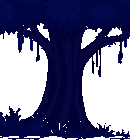
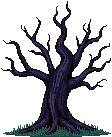
Fix the skill scenes: cut-out trees, one hero size, feet on the floor, and Play on the update log.

diff --git a/js/skillscene.js b/js/skillscene.js
@@ -2,8 +2,9 @@
 // unique trees or rocks for the spot you picked, a room that gains furniture
 // as you level, and a short flash when you find something good.
 // Positions snap to whole pixels so nothing ripples. Room art keeps square
-// pixels: it is scaled evenly, then letterboxed or cropped, never stretched.
-import {walkSrc} from './art.js';
+// pixels: it is scaled evenly and cover-cropped, never stretched or letterboxed.
+// Every floor prop and the hero's feet rest on the same walkable floor line.
+import {walkSrc, heroScale, FOOT_GAP} from './art.js';
 
 const FR = 64, FALLBACK = 'engineer';
 const SCROLL = 16;
@@ -17,13 +18,19 @@ const HERO_FOR = {
   cooking: 'paramedic', smithing: 'legionary', alchemy: 'plague_doctor', summoning: 'office_worker'
 };
 
+// Props are scoped by skill so a shared node id (like "iron") cannot pull
+// a mining rock into the forge.
 const PROP = {
-  copper: '/assets/gen/rock_copper.png', iron: '/assets/gen/rock_iron.png',
-  moonsilver: '/assets/gen/rock_moon.png', ember: '/assets/gen/rock_ember.png',
-  void: '/assets/gen/rock_void.png', starfall: '/assets/gen/rock_star.png',
-  ash: '/assets/gen/sks/tree_ash.png', ironbark: '/assets/gen/sks/tree_ironbark.png',
-  moonwood: '/assets/gen/sks/tree_moonwood.png', emberroot: '/assets/gen/sks/tree_emberroot.png',
-  voidtrunk: '/assets/gen/sks/tree_voidtrunk.png'
+  mining: {
+    copper: '/assets/gen/rock_copper.png', iron: '/assets/gen/rock_iron.png',
+    moonsilver: '/assets/gen/rock_moon.png', ember: '/assets/gen/rock_ember.png',
+    void: '/assets/gen/rock_void.png', starfall: '/assets/gen/rock_star.png'
+  },
+  woodcutting: {
+    ash: '/assets/gen/sks/tree_ash.png', ironbark: '/assets/gen/sks/tree_ironbark.png',
+    moonwood: '/assets/gen/sks/tree_moonwood.png', emberroot: '/assets/gen/sks/tree_emberroot.png',
+    voidtrunk: '/assets/gen/sks/tree_voidtrunk.png'
+  }
 };
 
 const FISH_BG = {
@@ -37,46 +44,46 @@ const ROOM_W = 384;
 const FURN = {
   cooking: [
     {src:'/assets/gen/sks/cook_herbs.png', at:10, x:0.2812, y:0.0000, w:16/ROOM_W},
-    {src:'/assets/gen/sks/cook_basket.png', at:20, x:0.5208, y:0.8548, w:22/ROOM_W},
-    {src:'/assets/gen/sks/cook_stool.png', at:30, x:0.4375, y:0.8387, w:16/ROOM_W},
+    {src:'/assets/gen/sks/cook_basket.png', at:20, x:0.5208, y:0.8548, w:22/ROOM_W, ground:true},
+    {src:'/assets/gen/sks/cook_stool.png', at:30, x:0.4375, y:0.8387, w:16/ROOM_W, ground:true},
     {src:'/assets/gen/sks/cook_board.png', at:40, x:0.1823, y:0.4677, w:22/ROOM_W},
-    {src:'/assets/gen/sks/cook_sack.png', at:50, x:0.0208, y:0.8548, w:14/ROOM_W},
-    {src:'/assets/gen/sks/cook_pantry.png', at:60, x:0.8385, y:0.1290, w:40/ROOM_W},
-    {src:'/assets/gen/sks/cook_crate.png', at:70, x:0.7604, y:0.8710, w:18/ROOM_W},
+    {src:'/assets/gen/sks/cook_sack.png', at:50, x:0.0208, y:0.8548, w:14/ROOM_W, ground:true},
+    {src:'/assets/gen/sks/cook_pantry.png', at:60, x:0.8385, y:0.1290, w:40/ROOM_W, ground:true},
+    {src:'/assets/gen/sks/cook_crate.png', at:70, x:0.7604, y:0.8710, w:18/ROOM_W, ground:true},
     {src:'/assets/gen/sks/cook_lamp.png', at:80, x:0.6406, y:0.0161, w:12/ROOM_W},
-    {src:'/assets/gen/sks/cook_pot.png', at:90, x:0.5885, y:0.8710, w:16/ROOM_W}
+    {src:'/assets/gen/sks/cook_pot.png', at:90, x:0.5885, y:0.8710, w:16/ROOM_W, ground:true}
   ],
   smithing: [
     {src:'/assets/gen/sks/smith_shield.png', at:10, x:0.0156, y:0.1452, w:16/ROOM_W},
-    {src:'/assets/gen/sks/smith_tub.png', at:20, x:0.4557, y:0.8710, w:20/ROOM_W},
-    {src:'/assets/gen/sks/smith_barrel.png', at:30, x:0.0156, y:0.8387, w:14/ROOM_W},
+    {src:'/assets/gen/sks/smith_tub.png', at:20, x:0.4557, y:0.8710, w:20/ROOM_W, ground:true},
+    {src:'/assets/gen/sks/smith_barrel.png', at:30, x:0.0156, y:0.8387, w:14/ROOM_W, ground:true},
     {src:'/assets/gen/sks/smith_swords.png', at:40, x:0.4375, y:0.0484, w:28/ROOM_W},
-    {src:'/assets/gen/sks/smith_shoes.png', at:50, x:0.3906, y:0.9032, w:18/ROOM_W},
+    {src:'/assets/gen/sks/smith_shoes.png', at:50, x:0.3906, y:0.9032, w:18/ROOM_W, ground:true},
     // Parked on the right, out of the walking lane in front of the forge.
-    {src:'/assets/gen/sks/smith_armor.png', at:60, x:0.8200, y:0.5806, w:24/ROOM_W},
+    {src:'/assets/gen/sks/smith_armor.png', at:60, x:0.7100, y:0.5806, w:24/ROOM_W, ground:true},
     {src:'/assets/gen/sks/smith_hammer.png', at:70, x:0.3906, y:0.0484, w:14/ROOM_W},
-    {src:'/assets/gen/sks/smith_barrel.png', at:80, x:0.5990, y:0.8387, w:14/ROOM_W},
-    {src:'/assets/gen/sks/smith_lean.png', at:90, x:0.3281, y:0.6613, w:16/ROOM_W}
+    {src:'/assets/gen/sks/smith_barrel.png', at:80, x:0.5990, y:0.8387, w:14/ROOM_W, ground:true},
+    {src:'/assets/gen/sks/smith_lean.png', at:90, x:0.3281, y:0.6613, w:16/ROOM_W, ground:true}
   ],
   alchemy: [
     {src:'/assets/gen/sks/alch_herbs.png', at:10, x:0.4792, y:0.0000, w:16/ROOM_W},
-    {src:'/assets/gen/sks/alch_books.png', at:20, x:0.0104, y:0.8741, w:18/ROOM_W},
-    {src:'/assets/gen/sks/alch_box.png', at:30, x:0.5208, y:0.8889, w:16/ROOM_W},
-    {src:'/assets/gen/sks/alch_stool.png', at:40, x:0.4167, y:0.8593, w:14/ROOM_W},
-    {src:'/assets/gen/sks/alch_pot.png', at:50, x:0.5573, y:0.8593, w:16/ROOM_W},
-    {src:'/assets/gen/sks/alch_scrolls.png', at:60, x:0.2604, y:0.8148, w:16/ROOM_W},
+    {src:'/assets/gen/sks/alch_books.png', at:20, x:0.0104, y:0.8741, w:18/ROOM_W, ground:true},
+    {src:'/assets/gen/sks/alch_box.png', at:30, x:0.5208, y:0.8889, w:16/ROOM_W, ground:true},
+    {src:'/assets/gen/sks/alch_stool.png', at:40, x:0.4167, y:0.8593, w:14/ROOM_W, ground:true},
+    {src:'/assets/gen/sks/alch_pot.png', at:50, x:0.5573, y:0.8593, w:16/ROOM_W, ground:true},
+    {src:'/assets/gen/sks/alch_scrolls.png', at:60, x:0.2604, y:0.8148, w:16/ROOM_W, ground:true},
     {src:'/assets/gen/sks/alch_lamp.png', at:70, x:0.4844, y:0.0000, w:12/ROOM_W},
-    {src:'/assets/gen/sks/alch_barrel.png', at:80, x:0.9375, y:0.8593, w:14/ROOM_W},
-    {src:'/assets/gen/sks/alch_flower.png', at:90, x:0.6510, y:0.8296, w:12/ROOM_W}
+    {src:'/assets/gen/sks/alch_barrel.png', at:80, x:0.9375, y:0.8593, w:14/ROOM_W, ground:true},
+    {src:'/assets/gen/sks/alch_flower.png', at:90, x:0.6510, y:0.8296, w:12/ROOM_W, ground:true}
   ]
 };
 
 let node = null, bgEl, floorEl, propLayer, furnLayer, walkEl, sprite, fxEl, bobEl;
 let raf = 0, last = 0, still = false;
-let W = 0, H = 0, k = 1.5, cam = 0, floorH = 0;
+let W = 0, H = 0, k = 1, cam = 0, floorH = 0;
 let skill = '', spot = '', heroId = '', level = 0, finds = 0, moving = false;
 let x = 0, dir = 1, v = 28, f = 0, ft = 0, frames = 4, hopping = 0, primed = false, isRoom = false;
-let lay = {s: 1, dw: 384, dh: 160, ox: 0, oy: 0};
+let lay = {s: 1, dw: 384, dh: 160, ox: 0, oy: 0, walk: 0};
 
 function build() {
   node = document.createElement('div');
@@ -106,40 +113,32 @@ function artSize(sk, id) {
   if (sk === 'alchemy') return {w: 384, h: 135, floor: 18};
   if (sk === 'mining') return {w: 384, h: 160, floor: 36};
   if (sk === 'woodcutting') return {w: 380, h: 136, floor: 24};
-  if (sk === 'fishing') return {w: 384, h: id === 'eel' ? 125 : 160, floor: 20};
+  // walk is the dirt top of the shore strip; the full strip (floor) is taller so grass can show.
+  if (sk === 'fishing') return {w: 384, h: 160, floor: 20, walk: 11};
   return {w: 384, h: 160, floor: 16};
 }
 
-// Whole-number scale when crop and letterbox stay modest; otherwise a uniform
-// cover scale so pixels stay square (never stretch X and Y apart).
+// Uniform cover: fill the box, keep square pixels, crop overflow. Always
+// bottom-aligned so the floor stays put and a phone room is never letterboxed.
 function fitScale(rw, rh) {
   if (!W || !H) return 1;
-  const cover = Math.max(W / rw, H / rh);
-  const contain = Math.min(W / rw, H / rh);
-  const cand = [Math.round(contain), Math.floor(contain), Math.round(cover), Math.ceil(cover), Math.floor(cover)];
-  let best = null, bestScore = 0.35;
-  for (const i of cand) {
-    if (!Number.isInteger(i) || i < 1) continue;
-    const cropW = Math.max(0, (i * rw - W) / Math.max(i * rw, 1));
-    const cropH = Math.max(0, (i * rh - H) / Math.max(i * rh, 1));
-    const barW = Math.max(0, (W - i * rw) / W);
-    const barH = Math.max(0, (H - i * rh) / H);
-    if (cropW > 0.45 || cropH > 0.45 || barW > 0.4 || barH > 0.4) continue;
-    const score = cropW + cropH + 0.6 * (barW + barH);
-    if (score < bestScore) { bestScore = score; best = i; }
-  }
-  return best || cover;
+  return Math.max(W / rw, H / rh);
 }
 
 function layout() {
   const art = artSize(skill, spot);
-  const s = isRoom ? fitScale(art.w, art.h) : (H ? H / art.h : 1);
+  const s = fitScale(art.w, art.h);
   const dw = art.w * s, dh = art.h * s;
   const ox = (W - dw) / 2;
   const oy = H - dh;
   floorH = Math.round(art.floor * s);
-  lay = {s, dw, dh, ox, oy, art};
+  const walk = Math.round((art.walk || art.floor) * s);
+  lay = {s, dw, dh, ox, oy, art, walk};
   return lay;
+}
+
+function footBottom() {
+  return Math.round((lay.walk || floorH) - FOOT_GAP * k);
 }
 
 function setSheet(id) {
@@ -160,29 +159,35 @@ function sizeHero() {
   sprite.style.width = FR * kk + 'px';
   sprite.style.height = FR * kk + 'px';
   sprite.style.backgroundSize = `${FR * frames * kk}px ${FR * kk}px`;
-  walkEl.style.bottom = Math.round(floorH) + 'px';
+  walkEl.style.bottom = footBottom() + 'px';
 }
 
 function measure() {
   const r = node.getBoundingClientRect();
   if (!r.width || !r.height) return false;
   W = r.width; H = r.height;
+  k = heroScale(W);
   layout();
-  const cap = Math.max(1, Math.floor((H * 0.85) / FR));
-  k = Math.max(1, Math.min(cap, Math.round(lay.s)));
   sizeHero();
   return true;
 }
 
 function placeFurniture() {
   const list = FURN[skill] || [];
-  const {dw, dh, ox, oy} = lay;
+  const {dw, dh, ox, oy, walk} = lay;
+  const line = Math.round(walk || floorH);
   [...furnLayer.children].forEach((p, i) => {
     const it = list[i];
     if (!it) return;
     p.style.left = Math.round(ox + it.x * dw) + 'px';
-    p.style.top = Math.round(oy + it.y * dh) + 'px';
     if (it.w) p.style.width = Math.round(it.w * dw) + 'px';
+    if (it.ground) {
+      p.style.top = 'auto';
+      p.style.bottom = line + 'px';
+    } else {
+      p.style.bottom = 'auto';
+      p.style.top = Math.round(oy + it.y * dh) + 'px';
+    }
     p.style.opacity = level >= it.at ? '1' : '0';
   });
 }
@@ -212,14 +217,13 @@ function applyScene(opts) {
   } else {
     floorEl.style.display = 'none';
   }
-  walkEl.style.bottom = Math.round(floorH) + 'px';
+  walkEl.style.bottom = footBottom() + 'px';
 
   if (changed) {
     propLayer.textContent = '';
-    const src = PROP[id];
+    const src = (PROP[sk] || {})[id];
     if (src) {
       const count = sk === 'woodcutting' || sk === 'mining' ? 3 : 1;
-      const isTree = sk === 'woodcutting';
       for (let i = 0; i < count; i++) {
         const p = document.createElement('img');
         p.className = 'sks-prop';
@@ -251,11 +255,16 @@ function applyScene(opts) {
     }
   }
   placeFurniture();
-  const treeW = Math.round(130 * lay.s);
-  const rockW = Math.round(64 * Math.max(1.2, lay.s));
+  const line = Math.round(lay.walk || floorH);
+  const treeH = 80 * k;
+  const rockH = 36 * k;
+  const hutH = 56 * k;
   [...propLayer.querySelectorAll('.sks-prop')].forEach(p => {
-    if (p.classList.contains('sks-hut')) p.style.width = Math.round(110 * Math.max(1, lay.s * 0.7)) + 'px';
-    else p.style.width = (skill === 'woodcutting' ? treeW : rockW) + 'px';
+    p.style.top = 'auto';
+    p.style.bottom = line + 'px';
+    p.style.width = 'auto';
+    if (p.classList.contains('sks-hut')) p.style.height = hutH + 'px';
+    else p.style.height = (skill === 'woodcutting' ? treeH : rockH) + 'px';
   });
 
   bobEl.style.display = sk === 'fishing' && moving ? '' : 'none';
@@ -289,11 +298,9 @@ function frame(now) {
   bgEl.style.backgroundSize = `${bgW}px ${bgH}px`;
   if (isRoom) {
     bgEl.style.backgroundPosition = `${ox}px ${oy}px`;
-    propLayer.style.transform = '';
   } else {
     const shift = bgW ? ((camPx % bgW) + bgW) % bgW : 0;
     bgEl.style.backgroundPosition = `${ox - Math.round(shift)}px ${oy}px`;
-    propLayer.style.transform = `translateX(${-Math.round((camPx * 0.85) % Math.max(W, 1))}px)`;
   }
   if (floorEl.style.display !== 'none') {
     const flW = bgW;
@@ -318,12 +325,12 @@ function frame(now) {
   sprite.style.backgroundPosition = `${-Math.round(f * FR * k)}px 0`;
   sprite.style.transform = dir < 0 ? 'scaleX(-1)' : '';
   walkEl.style.transform = `translateX(${Math.round(x - FR * k / 2)}px) translateY(${-hop}px)`;
-  walkEl.style.bottom = Math.round(floorH) + 'px';
+  walkEl.style.bottom = footBottom() + 'px';
 
   if (skill === 'fishing' && moving) {
     const bx = Math.round(W * 0.62);
     bobEl.style.left = bx + 'px';
-    bobEl.style.bottom = Math.round(floorH + 18 + Math.sin(now / 400) * 3) + 'px';
+    bobEl.style.bottom = Math.round((lay.walk || floorH) + 18 + Math.sin(now / 400) * 3) + 'px';
   }
 
   if (!still || !document.hidden) raf = requestAnimationFrame(frame);

diff --git a/js/life.js b/js/life.js
@@ -8,7 +8,7 @@
 // never restarts it. Positions snap to whole pixels so the street never ripples.
 // A hero that belongs to one account walks here only for that account, using the
 // walk art it was sent.
-import {walkSrc, hasWalk} from './art.js';
+import {walkSrc, hasWalk, heroScale, FOOT_GAP} from './art.js';
 const WALKERS = ['office_worker', 'delivery_rider', 'paramedic', 'hunter', 'legionary', 'engineer', 'plague_doctor', 'gangster', 'will_slapton'];
 export const PLACES = [
   {id: 'aldermere', name: 'Aldermere Square'},
@@ -61,10 +61,11 @@ function measure() {
   if (!r.width || !r.height) return false;
   if (r.width === W && r.height === H) return true;
   W = r.width; H = r.height;
-  k = Math.max(1, Math.min(2.4, H * 0.4 / FR));
-  ground = Math.round(H * 0.07);
+  k = heroScale(W);
   // Same visual scale as before: a 400 px street fills at least 1.25 of the banner width.
   scale = Math.max(W * 1.25, H * 2) / 400;
+  // 19 is the cobble top in the 200 px panorama. Subtract the walk-sheet gap so feet sit on it.
+  ground = Math.max(0, Math.round(19 * scale - FOOT_GAP * k));
   for (const w of walkers) sizeWalker(w);
   return true;
 }

diff --git a/js/public.js b/js/public.js
@@ -88,12 +88,23 @@
     b.addEventListener('click', function () { show(b.getAttribute('data-tab')); });
   });
 
+  function signedHeader() {
+    var btn = document.getElementById('openlogin');
+    if (!btn || btn.getAttribute('data-signed') === '1') return;
+    btn.setAttribute('data-signed', '1');
+    var a = document.createElement('a');
+    a.className = btn.className || 'btn gold sm';
+    a.href = '/play';
+    a.id = 'openplay';
+    a.textContent = 'Play';
+    btn.replaceWith(a);
+  }
   function admit() {
     if (!client) return;
     return client.from('den_allow').select('email').maybeSingle().then(function (q) {
       if (q.data) {
         var path = (location.pathname || '').replace(/\/+$/, '').replace(/\.html$/, '') || '/';
-        if (path === '/updates') return;
+        if (path === '/updates') { signedHeader(); return; }
         location.replace('/play');
       } else if (!q.error) reject();
       else say('The city is busy. Try again in a moment.');

diff --git a/css/game.css b/css/game.css
@@ -192,9 +192,8 @@ html.can-install:not(.app-seen):not(.no-install) .app-dot{display:block}
 .sks-bg,.sks-floor{position:absolute;inset:0;background-repeat:repeat-x;image-rendering:pixelated;background-position:0 100%}
 .sks-floor{top:auto;height:24px}
 .sks-furn,.sks-props{position:absolute;inset:0;pointer-events:none}
-.sks-prop,.sks-furn-item{position:absolute;bottom:8%;height:auto;max-height:82%;image-rendering:pixelated;image-rendering:-moz-crisp-edges}
+.sks-prop,.sks-furn-item{position:absolute;bottom:auto;height:auto;image-rendering:pixelated;image-rendering:-moz-crisp-edges}
 .sks-furn-item{bottom:auto;transition:opacity .7s ease}
-.sks-hut{bottom:10%}
 .sks-w{position:absolute;left:0;bottom:16px;z-index:2}
 .sks-s{background-repeat:no-repeat;image-rendering:pixelated}
 .sks-fx{position:absolute;left:50%;bottom:42%;width:32px;height:32px;opacity:0;pointer-events:none;z-index:4;transform:translate(-50%,0) scale(.4)}

diff --git a/js/art.js b/js/art.js
@@ -30,6 +30,12 @@ export const backSrc = (id, gif) => (OWN[id] && OWN[id].back) || `/card_backs/${
 // City banner walk strip: an account's own hero brings hers, everyone else uses the site's files.
 export const walkSrc = (id) => (OWN[id] && OWN[id].walk) || `/assets/walk/${id}.png`;
 export const hasWalk = (id) => !!(OWN[id] && OWN[id].walk);
+// One hero size for a given screen width, shared by the city and every skill scene.
+// Feet sit 2 pixels above the bottom of the 64-pixel walk box.
+export const FOOT_GAP = 2;
+export function heroScale(width) {
+  return width >= 500 ? 2 : 1;
+}
 export const sideSrc = (id) => (OWN[id] && OWN[id].side) || `/assets/sprites/${id}.png`;
 export const sideMeta = (id) => (OWN[id] && OWN[id].sideMeta) || null;
 export const frontSrc = (id, anim) => (OWN[id] && OWN[id].front[anim]) || `/assets/front/${id}_${anim}.png`;
